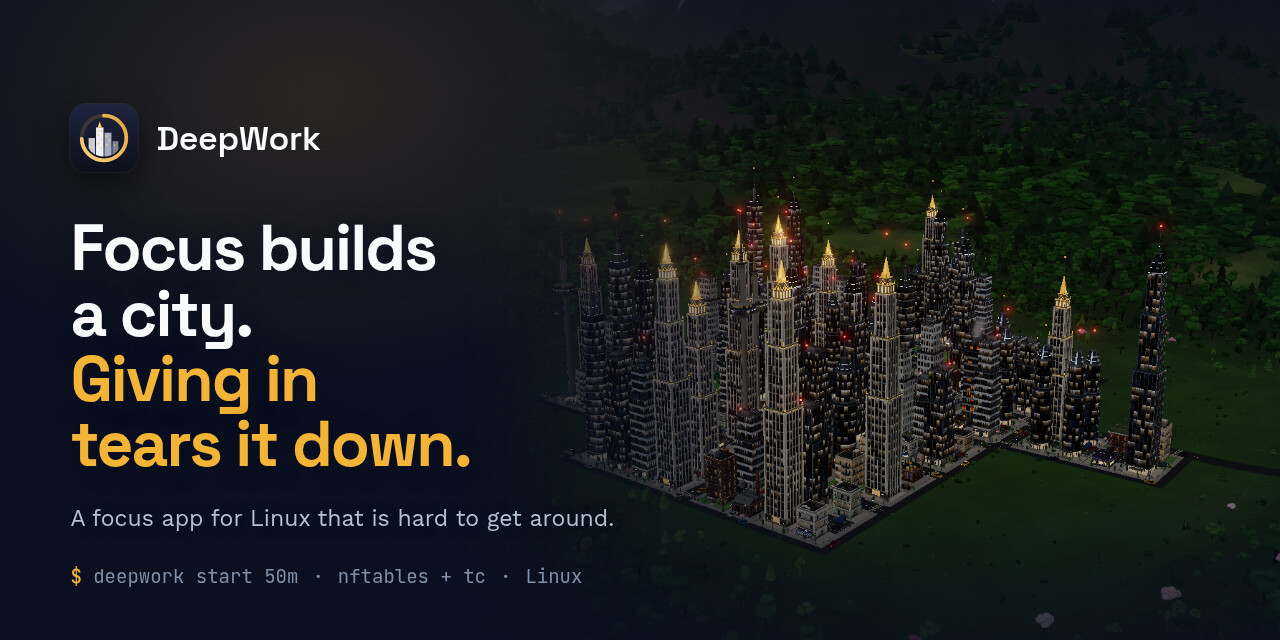
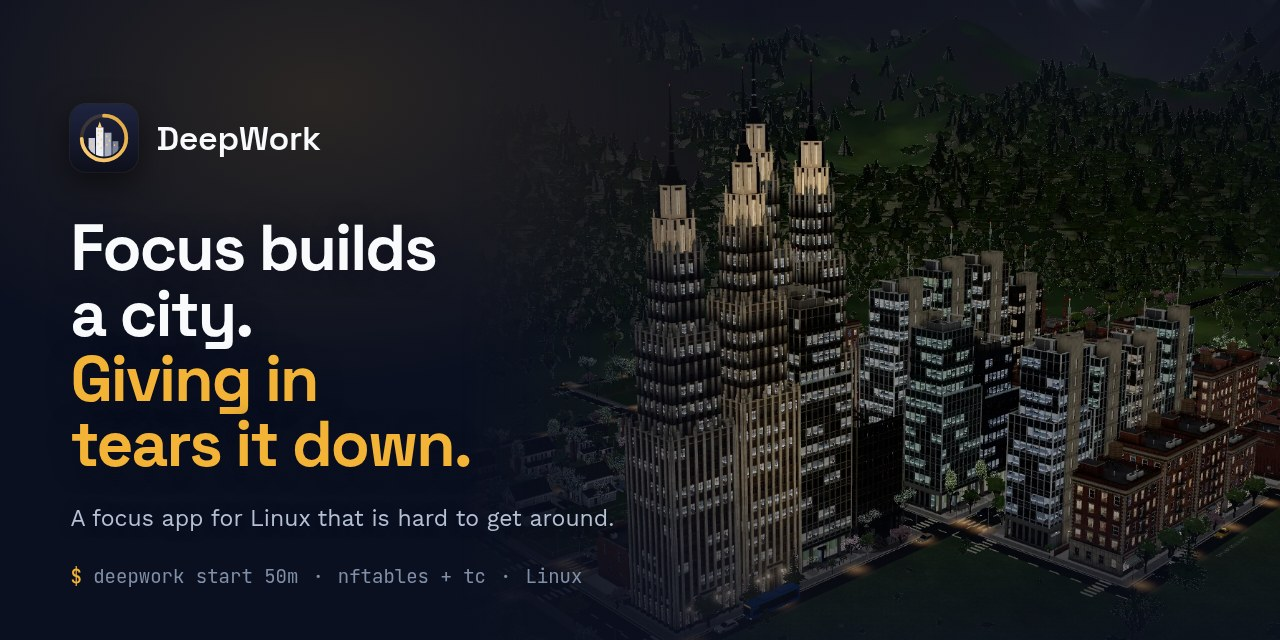
Longer 1080p demo, dusk social preview, demo recorder script
The demo grows from five beats to eight (city, the metropolis at dusk,
the ruins on fire added), recorded at 1920x1080 on quality=high and joined
with crossfades. ui/scripts/demo.ts records it; DEVELOPMENT.md has the
encode settings. The social preview shows the realistic metropolis at
dusk.

diff --git a/ui/scripts/demo.ts b/ui/scripts/demo.ts
@@ -1,0 +1,91 @@
+// Records the README and site demo, one directory of PNG frames per shot,
+// from the mock UI on the dev server (bun run dev). 1920x1080, 10 fps on a
+// fake clock, quality=high, no pedestrians; captions drawn in the page.
+//
+//   bun scripts/demo.ts out              # every shot (about 6 minutes)
+//   bun scripts/demo.ts out 5-dusk       # just one
+//
+// Joining and encoding: docs/DEVELOPMENT.md, "README media".
+import { chromium, type Page } from "playwright-core";
+import { mkdirSync } from "node:fs";
+const out = process.argv[2];
+const only = process.argv.slice(3);
+const W = 1920, H = 1080, FPS = 10;
+const browser = await chromium.launch({ executablePath: process.env.CHROMIUM ?? "/usr/bin/chromium", args: ["--headless=new", "--ignore-gpu-blocklist", "--enable-gpu", "--use-angle=gl"] });
+const ctx = await browser.newContext({ viewport: { width: W, height: H } });
+await ctx.addInitScript(() => { try { localStorage.setItem("deepwork.seen", "1e15"); } catch {} });
+
+async function open(qs: string, cam: string) {
+  const p = await ctx.newPage();
+  p.on("pageerror", (e) => console.error("pageerror", e.message));
+  await p.clock.install();
+  await p.goto(`http://localhost:5173/?${qs}&hour=16&people=0&quality=high&weather=clear`);
+  await p.waitForFunction(() => (window as any).city?.plan, null, { timeout: 300000, polling: 500 });
+  await p.addStyleTag({ content: `#story{display:none!important}
+    #cap{position:fixed;left:50%;bottom:64px;transform:translateX(-50%);z-index:99;padding:16px 34px;border-radius:16px;
+    background:rgba(16,18,24,.82);color:#fff;font:600 40px/1.2 var(--font-display);letter-spacing:-.01em;white-space:nowrap;
+    box-shadow:0 8px 30px rgba(0,0,0,.3)}` });
+  await p.evaluate((cam) => {
+    const c = (window as any).city;
+    const [x, y, z, tx, ty, tz] = cam.split(",").map(Number);
+    c.camera.position.set(x, y, z);
+    c.controls.target.set(tx, ty, tz);
+    c.controls.autoRotate = false;
+    c.idle = -1e9;
+    c.controls.update();
+    const d = document.createElement("div");
+    d.id = "cap";
+    document.body.append(d);
+  }, cam);
+  await p.waitForTimeout(8000); // textures, shadows, impostors settle in real time
+  await p.clock.pauseAt((await p.evaluate(() => Date.now())) + 500);
+  await p.clock.runFor(1500);
+  return p;
+}
+
+type Shot = { name: string; qs: string; cam: string; cap: string; secs: number; orbit?: number; dolly?: number; at?: Record<number, (p: Page) => Promise<unknown>> };
+
+async function record(s: Shot) {
+  const dir = `${out}/${s.name}`;
+  mkdirSync(dir, { recursive: true });
+  const p = await open(s.qs, s.cam);
+  await p.evaluate((t) => { document.getElementById("cap")!.textContent = t; }, s.cap);
+  const n = Math.round(s.secs * FPS);
+  for (let i = 0; i < n; i++) {
+    if (s.at?.[i]) await s.at[i](p);
+    if (s.orbit || s.dolly)
+      await p.evaluate(([a, k]) => {
+        const c = (window as any).city;
+        const t = c.controls.target;
+        const v = c.camera.position.clone().sub(t);
+        v.applyAxisAngle(c.camera.up, a).multiplyScalar(1 - k);
+        c.camera.position.copy(t).add(v);
+        c.camera.lookAt(t);
+      }, [(s.orbit ?? 0) / FPS, (s.dolly ?? 0) / FPS]);
+    await p.evaluate(() => { const d = document.getElementById("cap"); const dlg = document.querySelector("dialog[open]"); if (d && dlg && d.parentElement !== dlg) dlg.append(d); });
+    await p.clock.runFor(1000 / FPS);
+    await p.screenshot({ path: `${dir}/${String(i).padStart(4, "0")}.png` });
+  }
+  await p.close();
+  console.log(s.name, n);
+}
+
+const shots: Shot[] = [
+  { name: "1-hamlet", qs: "mock=hamlet", cam: "62,36,30,-15,3,-30", cap: "Set a timer. Distracting sites slow to a crawl.", secs: 4.5, orbit: 0.025,
+    at: { 14: (p) => p.click("[data-action=start-selected]") } },
+  { name: "2-build", qs: "mock=hamlet", cam: "40,30,10,-20,6,-34", cap: "Every finished session raises a building.", secs: 4.5, orbit: -0.03,
+    at: { 3: (p) => p.evaluate(() => (window as any).city.demo("build")) } },
+  { name: "3-city", qs: "mock=city", cam: "200,85,165,40,12,10", cap: "Sessions add up. The hamlet becomes a city.", secs: 5, orbit: 0.04, dolly: 0.02 },
+  { name: "4-metropolis", qs: "mock=metropolis", cam: "230,120,250,-5,30,5", cap: "500 hours in, a metropolis.", secs: 5.5, orbit: 0.05, dolly: 0.025 },
+  { name: "5-dusk", qs: "mock=metropolis&hour=18.3", cam: "-210,95,240,-30,30,30", cap: "It lights up when the sun goes down.", secs: 5, orbit: -0.04 },
+  { name: "6-surrender", qs: "mock=surrender", cam: "-165,80,120,-24,25,40", cap: "Quit early, and it comes down.", secs: 6,
+    at: { 10: (p) => p.evaluate(() => (window as any).city.demo("collapse", 26)) } },
+  { name: "7-ruins", qs: "mock=ruins", cam: "-120,60,45,-25,3,-15", cap: "The damage stays until focus repairs it.", secs: 5, orbit: 0.035, dolly: 0.015 },
+  { name: "8-sheets", qs: "mock=city", cam: "185,70,150,55,15,15", cap: "Stats and site lists, one click away.", secs: 5.5, orbit: 0.02,
+    at: {
+      2: (p) => p.click("[data-open=progress]"),
+      28: async (p) => { await p.keyboard.press("Escape"); await p.click("[data-open=settings]"); await p.clock.runFor(300); await p.click("#settings [data-section=lists]"); },
+    } },
+];
+for (const s of shots) if (!only.length || only.includes(s.name)) await record(s);
+await browser.close();

diff --git a/docs/DEVELOPMENT.md b/docs/DEVELOPMENT.md
@@ -164,12 +164,19 @@ deepwork config reload | export f | import f
 
 ## README media
 
-Screenshots and `assets/demo.webp` come from the mock UI in headless
-Chromium (Playwright, real GPU: `--use-angle=gl --ignore-gpu-blocklist`),
-city views at 1600x1000 scaled to 1280x800, sheets at 1280x800, all with
-`&hour=16&people=0` (pedestrians glide until they get a walk cycle) and a
-fixed camera. Set `localStorage["deepwork.seen"]` high first, or the mock's
-past events replay with captions. The demo is captured frame by frame with
-`page.clock` (10 fps), captioned in the page, and encoded with ffmpeg as
-animated WebP at 720 px. The social preview and the site's
-`og.jpg` come from `og/card.html` in the site repo.
+Screenshots and the demo come from the mock UI in headless Chromium
+(Playwright, real GPU: `--use-angle=gl --ignore-gpu-blocklist`), with
+`&people=0` (pedestrians glide until they get a walk cycle), `&weather=clear`
+and a fixed camera. Set `localStorage["deepwork.seen"]` high first, or the
+mock's past events replay with captions.
+
+- **Screenshots**: city views at 1600x1000 scaled to 1280x800, sheets at
+  1280x800, `&hour=16`.
+- **Demo**: `bun scripts/demo.ts out` records each shot frame by frame
+  (1920x1080, 10 fps, `quality=high`). ffmpeg joins the shots with 0.5 s
+  `xfade` crossfades into a lossless master, then encodes `assets/demo.webp`
+  (720 px, `-q:v 38`, under GitHub's 10 MB) and the site's `demo-av1.mp4`
+  (SVT-AV1, CRF 48, 10-bit) and `demo.mp4` (H.264 720p fallback).
+- **Social card**: `og/card.html` in the site repo renders the site's
+  `og.jpg` and `assets/social-preview.jpg`; GitHub's copy is uploaded by
+  hand in the repo's settings.
